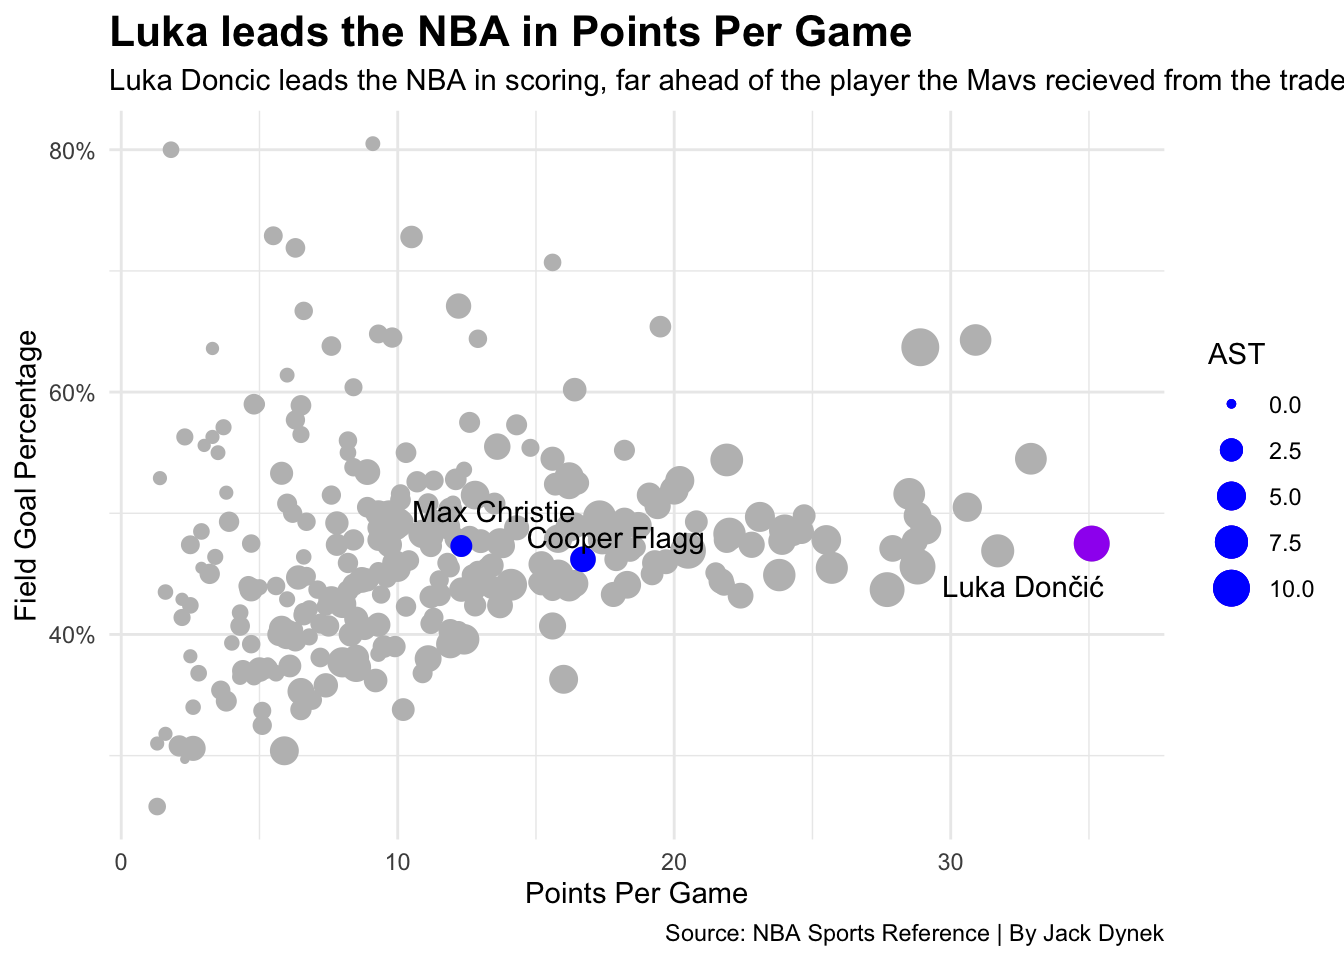
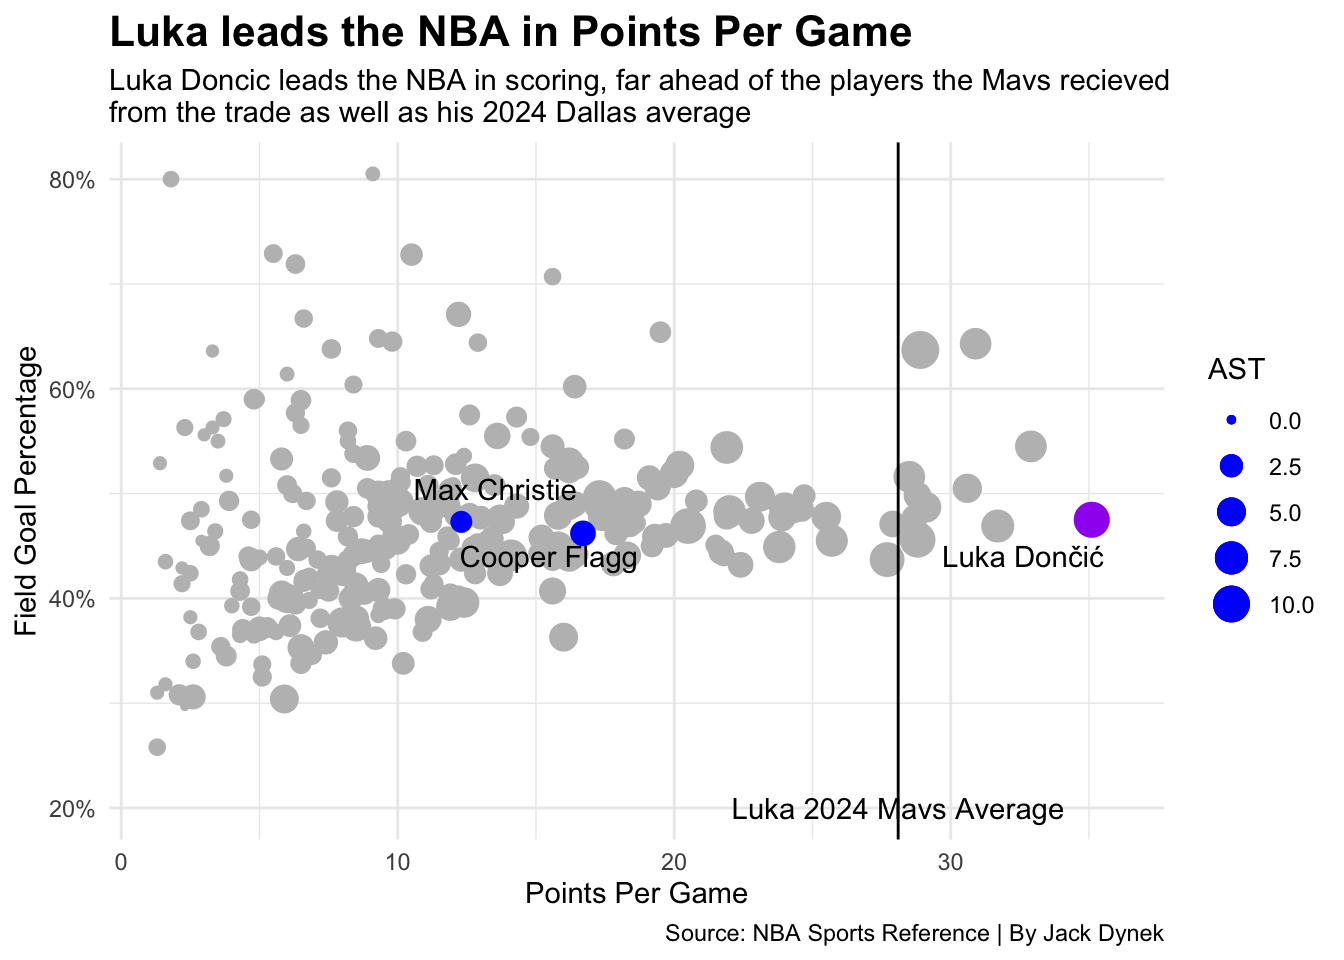
Final edits

diff --git a/posts/luka-lakers-impact/index.html b/posts/luka-lakers-impact/index.html
@@ -209,17 +209,20 @@ pre > code.sourceCode > span > a:first-child::before { text-decoration: underlin
 <span id="cb1-8"><a href="#cb1-8" aria-hidden="true" tabindex="-1"></a>Flagg <span class="ot">&lt;-</span> NBAscoring <span class="sc">|&gt;</span> <span class="fu">filter</span>(Player <span class="sc">==</span> <span class="st">"Cooper Flagg"</span>)</span>
 <span id="cb1-9"><a href="#cb1-9" aria-hidden="true" tabindex="-1"></a>Christie <span class="ot">&lt;-</span> NBAscoring <span class="sc">|&gt;</span> <span class="fu">filter</span>(Player <span class="sc">==</span> <span class="st">"Max Christie"</span>)</span>
 <span id="cb1-10"><a href="#cb1-10" aria-hidden="true" tabindex="-1"></a></span>
-<span id="cb1-11"><a href="#cb1-11" aria-hidden="true" tabindex="-1"></a><span class="fu">ggplot</span>() <span class="sc">+</span> <span class="fu">geom_point</span>(<span class="at">data=</span>NBAscoring, <span class="fu">aes</span>(<span class="at">x=</span>PTS, <span class="at">y=</span>FGPCT, <span class="at">size =</span> AST), <span class="at">color=</span><span class="st">"gray"</span>)<span class="sc">+</span><span class="fu">geom_point</span>(<span class="at">data=</span>Doncic, <span class="fu">aes</span>(<span class="at">x=</span>PTS, <span class="at">y=</span>FGPCT, <span class="at">size=</span>AST),<span class="at">color=</span><span class="st">"purple"</span>)<span class="sc">+</span> <span class="fu">geom_text_repel</span>(<span class="at">data=</span>Doncic, <span class="fu">aes</span>(<span class="at">x=</span><span class="dv">36</span>, <span class="at">y=</span>.<span class="dv">44</span>, <span class="at">label=</span>Player))<span class="sc">+</span><span class="fu">geom_point</span>(<span class="at">data=</span>Flagg, <span class="fu">aes</span>(<span class="at">x=</span>PTS, <span class="at">y=</span>FGPCT, <span class="at">size=</span>AST),<span class="at">color=</span><span class="st">"blue"</span>)<span class="sc">+</span><span class="fu">geom_text_repel</span>(<span class="at">data=</span>Flagg, <span class="fu">aes</span>(<span class="at">x=</span>PTS, <span class="at">y=</span>FGPCT, <span class="at">label=</span>Player)) <span class="sc">+</span><span class="fu">geom_point</span>(<span class="at">data=</span>Christie, <span class="fu">aes</span>(<span class="at">x=</span>PTS, <span class="at">y=</span>FGPCT, <span class="at">size=</span>AST),<span class="at">color=</span><span class="st">"blue"</span>)<span class="sc">+</span> <span class="fu">geom_text_repel</span>(<span class="at">data=</span>Christie, <span class="fu">aes</span>(<span class="at">x=</span>PTS, <span class="at">y=</span>FGPCT<span class="fl">+.01</span>, <span class="at">label=</span>Player)) <span class="sc">+</span></span>
-<span id="cb1-12"><a href="#cb1-12" aria-hidden="true" tabindex="-1"></a><span class="fu">scale_y_continuous</span>(<span class="at">labels =</span> percent) <span class="sc">+</span></span>
-<span id="cb1-13"><a href="#cb1-13" aria-hidden="true" tabindex="-1"></a>  <span class="fu">labs</span>(</span>
-<span id="cb1-14"><a href="#cb1-14" aria-hidden="true" tabindex="-1"></a>    <span class="at">x=</span><span class="st">"Points Per Game"</span>, </span>
-<span id="cb1-15"><a href="#cb1-15" aria-hidden="true" tabindex="-1"></a>    <span class="at">y=</span><span class="st">"Field Goal Percentage"</span>, </span>
-<span id="cb1-16"><a href="#cb1-16" aria-hidden="true" tabindex="-1"></a>    <span class="at">title=</span><span class="st">"Luka leads the NBA in Points Per Game"</span>, </span>
-<span id="cb1-17"><a href="#cb1-17" aria-hidden="true" tabindex="-1"></a>    <span class="at">subtitle=</span><span class="st">"Luka Doncic leads the NBA in scoring, far ahead of the player the Mavs recieved from the trade"</span>, </span>
-<span id="cb1-18"><a href="#cb1-18" aria-hidden="true" tabindex="-1"></a>    <span class="at">caption=</span><span class="st">"Source: NBA Sports Reference | By Jack Dynek"</span></span>
-<span id="cb1-19"><a href="#cb1-19" aria-hidden="true" tabindex="-1"></a>    ) <span class="sc">+</span></span>
-<span id="cb1-20"><a href="#cb1-20" aria-hidden="true" tabindex="-1"></a>    <span class="fu">theme_minimal</span>()<span class="sc">+</span></span>
-<span id="cb1-21"><a href="#cb1-21" aria-hidden="true" tabindex="-1"></a>  <span class="fu">theme</span>(<span class="at">plot.title =</span> <span class="fu">element_text</span>(<span class="at">size =</span> <span class="dv">16</span>, <span class="at">face =</span> <span class="st">"bold"</span>))</span></code></pre></div><button title="Copy to Clipboard" class="code-copy-button"><i class="bi"></i></button></div>
+<span id="cb1-11"><a href="#cb1-11" aria-hidden="true" tabindex="-1"></a></span>
+<span id="cb1-12"><a href="#cb1-12" aria-hidden="true" tabindex="-1"></a><span class="fu">ggplot</span>() <span class="sc">+</span> <span class="fu">geom_point</span>(<span class="at">data=</span>NBAscoring, <span class="fu">aes</span>(<span class="at">x=</span>PTS, <span class="at">y=</span>FGPCT, <span class="at">size =</span> AST), <span class="at">color=</span><span class="st">"gray"</span>)<span class="sc">+</span><span class="fu">geom_point</span>(<span class="at">data=</span>Doncic, <span class="fu">aes</span>(<span class="at">x=</span>PTS, <span class="at">y=</span>FGPCT, <span class="at">size=</span>AST),<span class="at">color=</span><span class="st">"purple"</span>)<span class="sc">+</span> <span class="fu">geom_text_repel</span>(<span class="at">data=</span>Doncic, <span class="fu">aes</span>(<span class="at">x=</span><span class="dv">36</span>, <span class="at">y=</span>.<span class="dv">44</span>, <span class="at">label=</span>Player))<span class="sc">+</span><span class="fu">geom_point</span>(<span class="at">data=</span>Flagg, <span class="fu">aes</span>(<span class="at">x=</span>PTS, <span class="at">y=</span>FGPCT, <span class="at">size=</span>AST),<span class="at">color=</span><span class="st">"blue"</span>)<span class="sc">+</span><span class="fu">geom_text_repel</span>(<span class="at">data=</span>Flagg, <span class="fu">aes</span>(<span class="at">x=</span>PTS, <span class="at">y=</span>FGPCT, <span class="at">label=</span>Player)) <span class="sc">+</span><span class="fu">geom_point</span>(<span class="at">data=</span>Christie, <span class="fu">aes</span>(<span class="at">x=</span>PTS, <span class="at">y=</span>FGPCT, <span class="at">size=</span>AST),<span class="at">color=</span><span class="st">"blue"</span>)<span class="sc">+</span> <span class="fu">geom_text_repel</span>(<span class="at">data=</span>Christie, <span class="fu">aes</span>(<span class="at">x=</span>PTS, <span class="at">y=</span>FGPCT<span class="fl">+.01</span>, <span class="at">label=</span>Player)) <span class="sc">+</span></span>
+<span id="cb1-13"><a href="#cb1-13" aria-hidden="true" tabindex="-1"></a>  <span class="fu">geom_vline</span>(<span class="at">xintercept =</span> <span class="fl">28.1</span>) <span class="sc">+</span> </span>
+<span id="cb1-14"><a href="#cb1-14" aria-hidden="true" tabindex="-1"></a>  <span class="fu">geom_text</span>(<span class="fu">aes</span>(<span class="at">x=</span><span class="fl">28.1</span>, <span class="at">y=</span>.<span class="dv">2</span>, <span class="at">label=</span><span class="st">"Luka 2024 Mavs Average"</span>))<span class="sc">+</span></span>
+<span id="cb1-15"><a href="#cb1-15" aria-hidden="true" tabindex="-1"></a><span class="fu">scale_y_continuous</span>(<span class="at">labels =</span> percent) <span class="sc">+</span></span>
+<span id="cb1-16"><a href="#cb1-16" aria-hidden="true" tabindex="-1"></a>  <span class="fu">labs</span>(</span>
+<span id="cb1-17"><a href="#cb1-17" aria-hidden="true" tabindex="-1"></a>    <span class="at">x=</span><span class="st">"Points Per Game"</span>, </span>
+<span id="cb1-18"><a href="#cb1-18" aria-hidden="true" tabindex="-1"></a>    <span class="at">y=</span><span class="st">"Field Goal Percentage"</span>, </span>
+<span id="cb1-19"><a href="#cb1-19" aria-hidden="true" tabindex="-1"></a>    <span class="at">title=</span><span class="st">"Luka leads the NBA in Points Per Game"</span>, </span>
+<span id="cb1-20"><a href="#cb1-20" aria-hidden="true" tabindex="-1"></a>    <span class="at">subtitle=</span><span class="st">"Luka Doncic leads the NBA in scoring, far ahead of the players the Mavs recieved </span><span class="sc">\n</span><span class="st">from the trade as well as his 2024 Dallas average"</span>, </span>
+<span id="cb1-21"><a href="#cb1-21" aria-hidden="true" tabindex="-1"></a>    <span class="at">caption=</span><span class="st">"Source: NBA Sports Reference | By Jack Dynek"</span></span>
+<span id="cb1-22"><a href="#cb1-22" aria-hidden="true" tabindex="-1"></a>    ) <span class="sc">+</span></span>
+<span id="cb1-23"><a href="#cb1-23" aria-hidden="true" tabindex="-1"></a>    <span class="fu">theme_minimal</span>()<span class="sc">+</span></span>
+<span id="cb1-24"><a href="#cb1-24" aria-hidden="true" tabindex="-1"></a>  <span class="fu">theme</span>(<span class="at">plot.title =</span> <span class="fu">element_text</span>(<span class="at">size =</span> <span class="dv">16</span>, <span class="at">face =</span> <span class="st">"bold"</span>))</span></code></pre></div><button title="Copy to Clipboard" class="code-copy-button"><i class="bi"></i></button></div>
 </details>
 <div class="cell-output-display">
 <div>
@@ -253,7 +256,7 @@ pre > code.sourceCode > span > a:first-child::before { text-decoration: underlin
 <span id="cb2-18"><a href="#cb2-18" aria-hidden="true" tabindex="-1"></a>    <span class="at">x=</span><span class="st">"Season"</span>, </span>
 <span id="cb2-19"><a href="#cb2-19" aria-hidden="true" tabindex="-1"></a>    <span class="at">y=</span><span class="st">"PTS Scored per game"</span>, </span>
 <span id="cb2-20"><a href="#cb2-20" aria-hidden="true" tabindex="-1"></a>    <span class="at">title=</span><span class="st">"The Mavericks have struggled offensively post Luka trade"</span>, </span>
-<span id="cb2-21"><a href="#cb2-21" aria-hidden="true" tabindex="-1"></a>    <span class="at">subtitle=</span><span class="st">"In the year following the trade the Lakers have only improved on offense while the</span><span class="sc">\n</span><span class="st"> Mavs have regressed"</span>, </span>
+<span id="cb2-21"><a href="#cb2-21" aria-hidden="true" tabindex="-1"></a>    <span class="at">subtitle=</span><span class="st">"In the year following the trade the Lakers have improved on offense while the</span><span class="sc">\n</span><span class="st">Mavs have regressed"</span>, </span>
 <span id="cb2-22"><a href="#cb2-22" aria-hidden="true" tabindex="-1"></a>    <span class="at">caption=</span><span class="st">"Source: NFL Sports Reference | By Jack Dynek"</span></span>
 <span id="cb2-23"><a href="#cb2-23" aria-hidden="true" tabindex="-1"></a>    ) <span class="sc">+</span></span>
 <span id="cb2-24"><a href="#cb2-24" aria-hidden="true" tabindex="-1"></a>  <span class="fu">theme_minimal</span>()<span class="sc">+</span></span>
@@ -290,7 +293,7 @@ pre > code.sourceCode > span > a:first-child::before { text-decoration: underlin
 <span id="cb3-17"><a href="#cb3-17" aria-hidden="true" tabindex="-1"></a>    <span class="at">x=</span><span class="st">"Game Since Trade"</span>, </span>
 <span id="cb3-18"><a href="#cb3-18" aria-hidden="true" tabindex="-1"></a>    <span class="at">y=</span><span class="st">"PTS Scored per game"</span>, </span>
 <span id="cb3-19"><a href="#cb3-19" aria-hidden="true" tabindex="-1"></a>    <span class="at">title=</span><span class="st">"Lakers outpaced the Mavs in scoring post Luka trade"</span>, </span>
-<span id="cb3-20"><a href="#cb3-20" aria-hidden="true" tabindex="-1"></a>    <span class="at">subtitle=</span><span class="st">"While the Scoring is eratic, the Mavericks experienced a brief boost before</span><span class="sc">\n</span><span class="st"> regression while the lakers scored more"</span>, </span>
+<span id="cb3-20"><a href="#cb3-20" aria-hidden="true" tabindex="-1"></a>    <span class="at">subtitle=</span><span class="st">"While the Scoring is eratic in the 10 games after the trade, the Mavericks experienced a </span><span class="sc">\n</span><span class="st">brief boost before regression while the lakers scored more overall"</span>, </span>
 <span id="cb3-21"><a href="#cb3-21" aria-hidden="true" tabindex="-1"></a>    <span class="at">caption=</span><span class="st">"Source: NFL Sports Reference | By Jack Dynek"</span></span>
 <span id="cb3-22"><a href="#cb3-22" aria-hidden="true" tabindex="-1"></a>    ) <span class="sc">+</span></span>
 <span id="cb3-23"><a href="#cb3-23" aria-hidden="true" tabindex="-1"></a>  <span class="fu">theme_minimal</span>()<span class="sc">+</span></span>

diff --git a/index.html b/index.html
@@ -243,7 +243,7 @@ Jack Dynek
 </a>
 </div>
 </div>
-<div class="quarto-post image-right" data-index="1" data-categories="TkJBJTJDVHJhZGU=" data-listing-date-sort="1763359200000" data-listing-file-modified-sort="1765300302925" data-listing-date-modified-sort="NaN" data-listing-reading-time-sort="5" data-listing-word-count-sort="841">
+<div class="quarto-post image-right" data-index="1" data-categories="TkJBJTJDVHJhZGU=" data-listing-date-sort="1763359200000" data-listing-file-modified-sort="1765301751332" data-listing-date-modified-sort="NaN" data-listing-reading-time-sort="5" data-listing-word-count-sort="867">
 <div class="thumbnail"><a href="./posts/luka-lakers-impact/index.html" class="no-external">
 
 <img loading="lazy" src="./posts/luka-lakers-impact/image.png" class="thumbnail-image">
